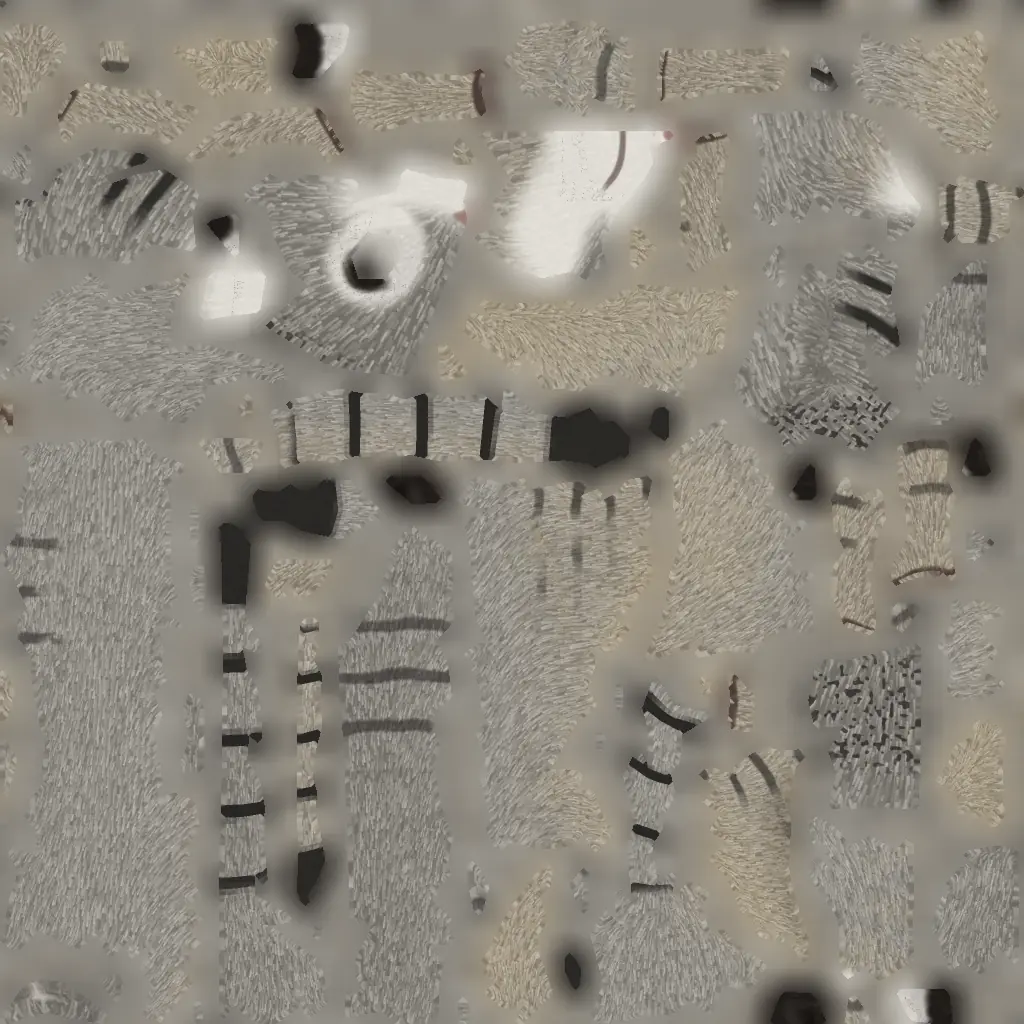
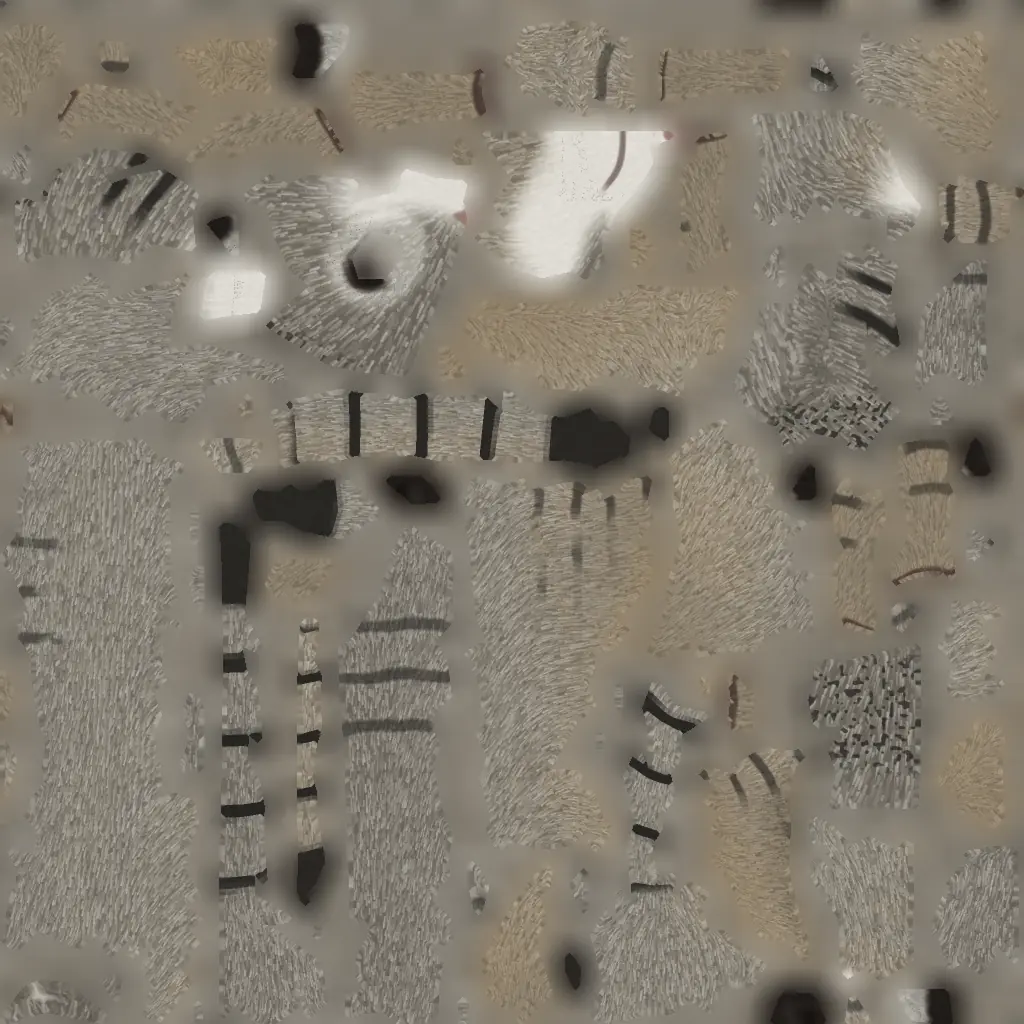
Round 17 WIP: displays on calls, hood fix, menu picture framing, Pallas's cat coat, Blender README
Claude-Session: https://claude.ai/code/session_0178i5uP1kqJaH7MisS9wMjZ

diff --git a/game/src/40_animals.js b/game/src/40_animals.js
@@ -3190,7 +3190,7 @@ void RE_Direct_AA(const in IncidentLight directLight, const in GeometricContext 
         for (let i = 0; i < 90; i++) { st.t += 1 / 30; Rg.rig.update(1 / 30, st); }
         Rg.root.updateMatrixWorld(true);
         const box = new THREE.Box3(), v = new THREE.Vector3();
-        for (const n of ['head', ...names]) box.expandByPoint(Rg.bones[n].getWorldPosition(v));
+        for (const n of ['head', ...names.slice(0, o.iconN || N)]) box.expandByPoint(Rg.bones[n].getWorldPosition(v));
         const sz = box.getSize(new THREE.Vector3());
         return { size: Math.max(sz.x, sz.y, sz.z) * 1.1 + 4 * R, at: box.getCenter(v).toArray(), dir: o.iconDir || [0.72, 0.42, 0.75] };
       },
@@ -3220,7 +3220,7 @@ void RE_Direct_AA(const in IncidentLight directLight, const in GeometricContext 
     },
     eye: { iris: 0x4A3418, pupil: 'round', pupilR: 0.42 },
     anim: { walk: 1.0, run: 3.4, floatDepth: 0.03, rear: [0.34, 0.11], hood: [[0, 1.35], [1, 2.1], [2, 1.55], [3, 1.1]] },
-    iconSt: { happy: 1 }, iconDir: [0.75, 0.2, 0.62],
+    iconSt: { happy: 1 }, iconDir: [0.8, 0.25, 0.55], iconN: 12,
   });
   // The western diamondback rattlesnake: 1.4 m and heavy, a broad triangular head on a thin neck, gray-brown with dark
   // diamonds edged in cream, a black and white banded tail and the rattle. It coils with its head raised and buzzes
@@ -9933,6 +9933,7 @@ void RE_Direct_AA(const in IncidentLight directLight, const in GeometricContext 
     // head's lift and its place in front of the first bone with the head's size, amp the wave's width (a heavy snake
     // swings less); all 1 for the garter snake
     const kL = P.kL || 1, kH = P.kH || 1, ampK = P.amp || 1, hOff = P.headOff == null ? 0.012 : P.headOff;
+    const hoodMax = P.hood ? Math.max(...P.hood.map((h) => h[1])) : 1;
     const S = { ph: R.rnd * TAU, amp: 0.05 * kL * ampK, spd: 0, swim: 0, eat: 0, air: 0, lean: 0, look: 0, k: 0, lift: 0, rear: 0, rearT: 0, sway: R.rnd * TAU };
     moodInit(S, R.rnd);
     const xs = new Float32Array(N + 1), zs = new Float32Array(N + 1), ys = new Float32Array(N + 1);
@@ -9996,7 +9997,7 @@ void RE_Direct_AA(const in IncidentLight directLight, const in GeometricContext 
       // call, being petted) and when something big comes near (st.alert), standing still on the ground
       let pitchUp = 0;
       if (P.rear || P.rattle) {
-        const al = (st.alert || 0) > 0, want = (hap > 0.45 || al) && !sleeping && mode === 'ground' && spd < 0.3;
+        const al = (st.alert || 0) > 0, want = ((st.happy || 0) > 0.6 || hap > 0.45 || al) && !sleeping && mode === 'ground' && spd < 0.3;
         S.rearT = want ? Math.max(S.rearT, al ? 1.5 : 3.5) : Math.max(0, S.rearT - dt);
         if (mode !== 'ground' || spd > 0.6) S.rearT = 0;
         spring(S, 'rear', S.rearT > 0 ? 1 : 0, S.rearT > 0 ? 2.4 : 1.8, dt);
@@ -10014,7 +10015,7 @@ void RE_Direct_AA(const in IncidentLight directLight, const in GeometricContext 
       }
       // round 17: the cobra's hood (P.hood: [bone index, width]): the bones under it widen across and flatten a little
       // as it rears
-      if (P.hood) { const hr = sstep(0.35, 0.9, S.rear); for (const [i, kx] of P.hood) segs[i].scale.set(1 + (kx - 1) * hr, 1 - 0.3 * hr * (kx - 1) / (P.hood[0][1] - 1), 1); }
+      if (P.hood) { const hr = sstep(0.35, 0.9, S.rear); for (const [i, kx] of P.hood) segs[i].scale.set(1 + (kx - 1) * hr, 1 - 0.25 * hr * (kx - 1) / (hoodMax - 1), 1); }
       // head follows the first segment, with look and eat pitch
       _v1.set(xs[0] - xs[1], 0, zs[0] - zs[1]).normalize();
       const yaw = Math.atan2(_v1.x, _v1.z) * lerp(0.6, 1, sl) + S.look * (1 - S.rear * 0.6);

diff --git a/tools/blender/pallascat.py b/tools/blender/pallascat.py
@@ -187,7 +187,7 @@ def _strands(P, N, R):
 
 
 KP = {
-    'gray': hexc(0x8A867E), 'grayDk': hexc(0x5E5A54), 'frost': hexc(0xE6E4DE), 'buff': hexc(0xA8987A), 'white': hexc(0xEEEBE4),
+    'gray': hexc(0x807A6E), 'grayDk': hexc(0x56524A), 'frost': hexc(0xE2E0D8), 'buff': hexc(0x9A8566), 'white': hexc(0xEEEBE4),
     'black': hexc(0x1E1C1A), 'nose': hexc(0x9A6A62), 'noseRim': hexc(0x4A3430), 'earIn': hexc(0xD8D0C4), 'pad': hexc(0x4A3A36),
     'lid': hexc(0x2A2420), 'kit': hexc(0x605C58),
 }
@@ -217,7 +217,7 @@ def _marks(R, Pm, N):
     eyew = sstep(1.75, 1.2, R['ring']) * (1 - R['lid']) * (1 - R['ball'])
     muz = sstep(0.06, 0.07, L[:, 2]) * sstep(0.004, -0.008, L[:, 1])
     chin = sstep(-0.02, -0.03, L[:, 1]) * sstep(0.03, 0.05, L[:, 2])
-    m['white'] = np.clip(eyew * 0.85 + muz + chin, 0, 1) * hd * (1 - R['nose'])
+    m['white'] = np.clip(eyew * 0.5 + muz + chin, 0, 1) * hd * (1 - R['nose'])
     return m
 
 
@@ -231,7 +231,7 @@ def paint(P, N, c):
     # the frosting: white tips on the long hairs, gray in the partings between the locks
     s, tone = _strands(P, N, R)
     col = mix(col, KP['grayDk'], (1 - s) * 0.4 * (1 - R['nose']))
-    col = mix(col, KP['frost'], s * tone * 0.55 * (1 - R['nose']) * (1 - R['ball']))
+    col = mix(col, KP['frost'], s * tone * 0.55 * (1 - R['nose']) * (1 - R['ball']) * (1 - 0.6 * sstep(0.14, 0.06, Pm[:, 1])))
     m = _marks(R, Pm, N)
     col = mix(col, KP['black'], m['bars'] * 0.75 + m['rings'] * 0.9)
     col = mix(col, KP['white'], m['white'] * 0.85)

diff --git a/tools/blender/README.md b/tools/blender/README.md
@@ -1886,3 +1886,43 @@ used only by the peacock's train and crest; the other kinds draw as before.
   City Zoo, the Safari Park and by the farm on the Land.
 - Budget: see the Budget section.
 
+
+## Round 17: three more snakes on the garter snake's tube (`snakekit.py`: `kingcobra.py`, `rattlesnake.py`, `anaconda.py`) and Pallas's cat (`pallascat.py`)
+
+The snakes are built like the garter snake (no sculpt: an exact tube, made as the game mesh with even rings and
+evaluated per texel), with `snakekit.py`: `base(over)` runs `snake.py` in a module of its own with the species' cross
+sections, head landmarks and scale settings, all in "garter units" (the garter's head, 4.5 cm), and `make(globals(), M,
+KS)` installs the pipeline hooks, which scale everything by KS (the head scale) into game meters. The game rig is the
+same layout (`snakeKit` in 40_animals.js, `kH` = KS): the tip of the snout at 0.48 of the length, the first body bone
+0.052 KS behind it, the last one 6% of the length before the tail tip. A species can replace any of the tube's
+functions (`features()` for extra shape, `_head_seams()` for its head scales, `SK.dorsal(M, keel)` for smooth or keeled
+scales) and give its own `paint()`, `baby_paint()`, `detail()`, `baby_offset()` and `rings()`. Run them with the
+steps `rig lowpoly bake texture export` (`make.py <id> rig`, then `make.py <id> lowpoly export`; there is no sculpt):
+about 2 minutes each. `SK.small_scales()` draws small irregular scales (2D Worley cells).
+- King cobra (KS 2.4, 3.7 m, `TEX=1024`): a slender body with 15 rows of big smooth scales, a big head with large
+  plates and the pair of occipitals behind them, round pupils; olive brown with faint pale chevrons that point forward,
+  clearer toward the darker tail, a cream-yellow throat. Hatchlings (`baby_paint`, 512 map): glossy black with narrow
+  yellow-white chevrons and pale bars across the head. In the game it rears up the front third of its body and spreads
+  its hood (`anim.rear`, `anim.hood`: the bones under the hood widen across).
+- Western diamondback rattlesnake (KS 1.45, 1.4 m, `TEX=768`): a heavy body on a thin neck, 25 rows of keeled scales, a
+  broad triangular head with a heavy brow, the heat pit, small crown scales between the big brow plates, slit pupils;
+  gray-brown with dark brown diamonds rimmed in cream, the dark eye stripe between pale lines, a black and white banded
+  tail and a tan rattle of six segments, each with its front lobe and the groove behind it (`features()`, fine rings
+  over it). A newborn has a single button (`baby_offset` squeezes the rattle into its first segment). In the game it
+  coils and buzzes the rattle (`anim.rattle`).
+- Green anaconda (KS 3.4, 5 m, `TEX=768`, normal map WebP 50, the scale relief at 0.6): a thick body, a narrow flat
+  head with the eyes (`EYE_TH` 0.62) and nostrils on top and small scales all over it, narrow belly plates; dark olive
+  with two rows of big black ovals down the back (the halves mirror, so they pair up), black-ringed yellow-orange spots
+  low on the sides, a yellowish belly with black marks, the black and orange stripes back from the eye.
+- Pallas's cat (`VOXEL=0.0025 TRIS=4200 TEX=1024`, about 4 minutes on the shared machine): the fluffy white cat's way
+  with a long coat (the sculpt is the body plus the coat's volume) on the cat template: a broad flat face made broader by
+  long cheek fur, small round ears low on the sides (`CV.ear` 'round'; the game's ear bone moved there), big round
+  eyes set high, a thick blunt ringed tail; frosted gray (white tips on the coat strokes), buff low down, a few dark
+  bars over the loins and the backs of the hind legs, black spots on the forehead, two black stripes on each cheek,
+  white chin and muzzle. Long fur shells (`len` 0.045, 6 layers, 2 at detail 1). Kittens are darker gray with faint
+  marks.
+- Budget (files, about 4/3 of that in the page; texture memory with mipmaps on a computer and on a phone, where the
+  color and normal maps are capped at 512): king cobra 8.2k triangles, 182 KB (mesh 12, color 29, normal 122,
+  hatchling 18 KB), about 12.6 MB / 4.2 MB; rattlesnake 9.6k triangles, 171 KB (16 + 38 + 116 KB), 6.3 MB / 2.8 MB;
+  anaconda 8.2k triangles, 145 KB (15 + 36 + 93 KB), 6.3 MB / 2.8 MB; Pallas's cat 5.3k triangles plus 192 in the
+  whiskers, 191 KB (53 + 78 + 35 + 4 + 12 + 5 KB), about 13.4 MB / 5 MB.
